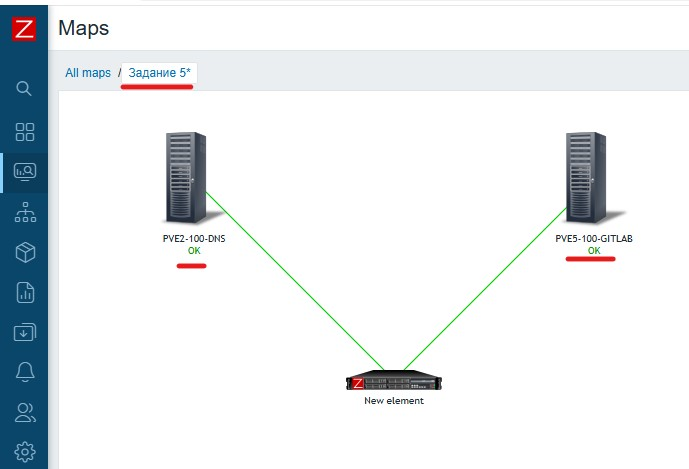
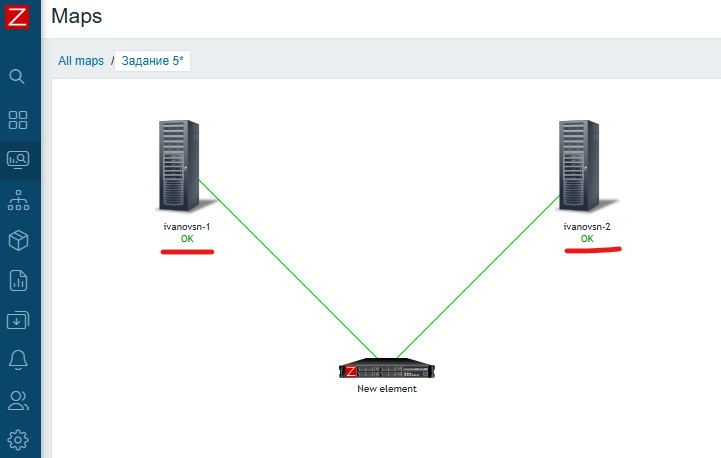
Доработка 2

diff --git a/README.md b/README.md
@@ -118,7 +118,7 @@
 
 ## Решение
 
-`Дашборд по визуализации данных по шаблону "Задание 1" которые поступают от "PVE2-100-DNS" и "PVE5-100-GITLAB".`
+`Дашборд по визуализации данных по шаблону "Задание 1" которые поступают от "ivanovsn-1" и "ivanovsn-2".`
 `На изображениях видно, что превышено использование RAM памяти. Нужно решать проблему.`
 
 ![""](https://github.com/radiomost/zabbix-part2/blob/main/img/img-9.jpg)
@@ -136,13 +136,13 @@
 
 ## Решение
 
-Исходное рабочее состояние. "PVE2-100-DNS" и "PVE5-100-GITLAB" работают.
+Исходное рабочее состояние. "ivanovsn-1" и "ivanovsn-2" работают.
 
 ![""](https://github.com/radiomost/zabbix-part2/blob/main/img/img-10.jpg)
 ![""](https://github.com/radiomost/zabbix-part2/blob/main/img/img-11.jpg)
 ![""](https://github.com/radiomost/zabbix-part2/blob/main/img/img-12.jpg)
 
-Условие, при котором PVE5-100-GITLAB отключен.
+Условие, при котором "ivanovsn-2" отключен.
 ![""](https://github.com/radiomost/zabbix-part2/blob/main/img/img-13.jpg)
 ![""](https://github.com/radiomost/zabbix-part2/blob/main/img/img-14.jpg)
 ![""](https://github.com/radiomost/zabbix-part2/blob/main/img/img-15.jpg)
